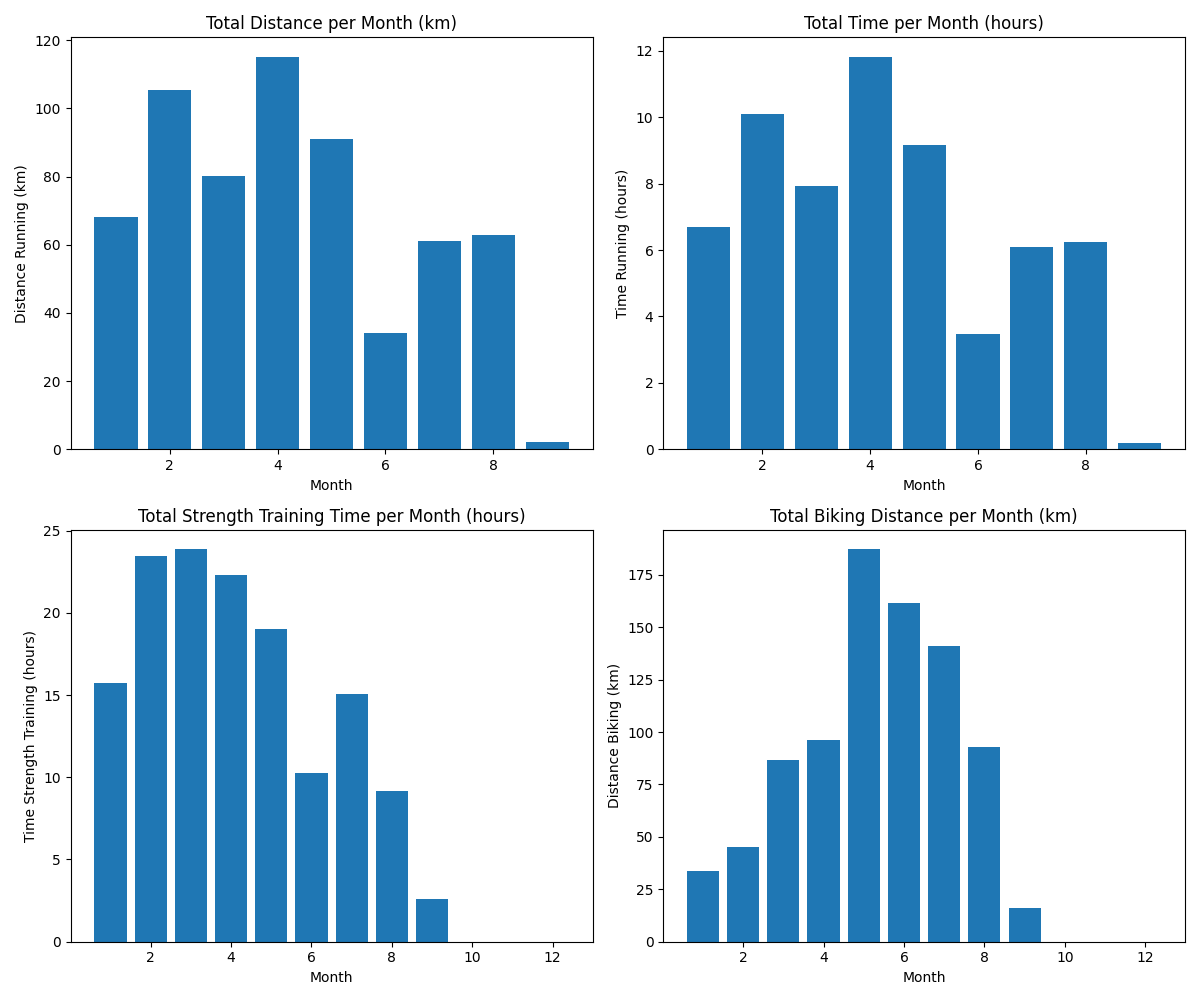
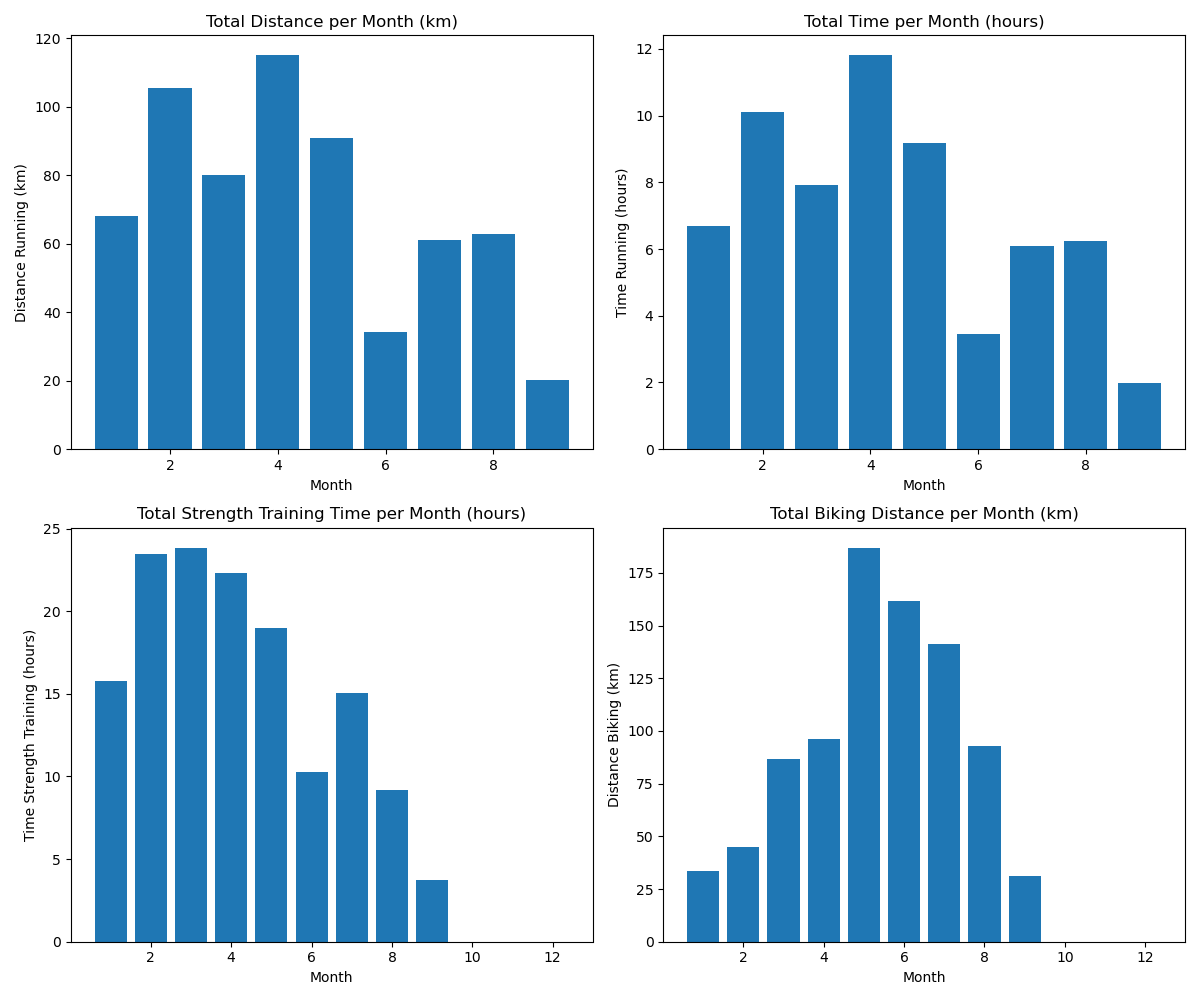
sport update 10.9

diff --git a/Sport/Sport_2026_report.md b/Sport/Sport_2026_report.md
@@ -3,24 +3,24 @@
 ## Sport Counts
 | type   |   count |
 |:-------|--------:|
-| F      |     163 |
+| F      |     165 |
 | S      |      17 |
-| L      |       9 |
-| B      |       6 |
+| L      |      10 |
+| B      |       7 |
 | K      |       5 |
-| Total  |     200 |
+| Total  |     204 |
 
 ## Summary
-- **Total distance run on treadmill:** 570.51 km
-- **Total distance run outside:** 49.10 km
-- **Total distance cycled:** 859.81 km
+- **Total distance run on treadmill:** 582.51 km
+- **Total distance run outside:** 55.21 km
+- **Total distance cycled:** 874.81 km
 - **Total distance swimming:** 43.00 km
-- **Total distance skating:** 90.01 km
-- **Total time spent on strength training:** 141h 23min
+- **Total distance skating:** 103.51 km
+- **Total time spent on strength training:** 142h 33min
 
 ## Average Speeds
-- **Treadmill running:** 9.99 km/h
-- **Outside running:** 10.26 km/h
-- **Cycling:** 21.21 km/h
+- **Treadmill running:** 10.00 km/h
+- **Outside running:** 10.29 km/h
+- **Cycling:** 21.14 km/h
 - **Swimming:** 2.60 km/h
-- **Inline skating:** 9.31 km/h
+- **Inline skating:** 8.94 km/h
